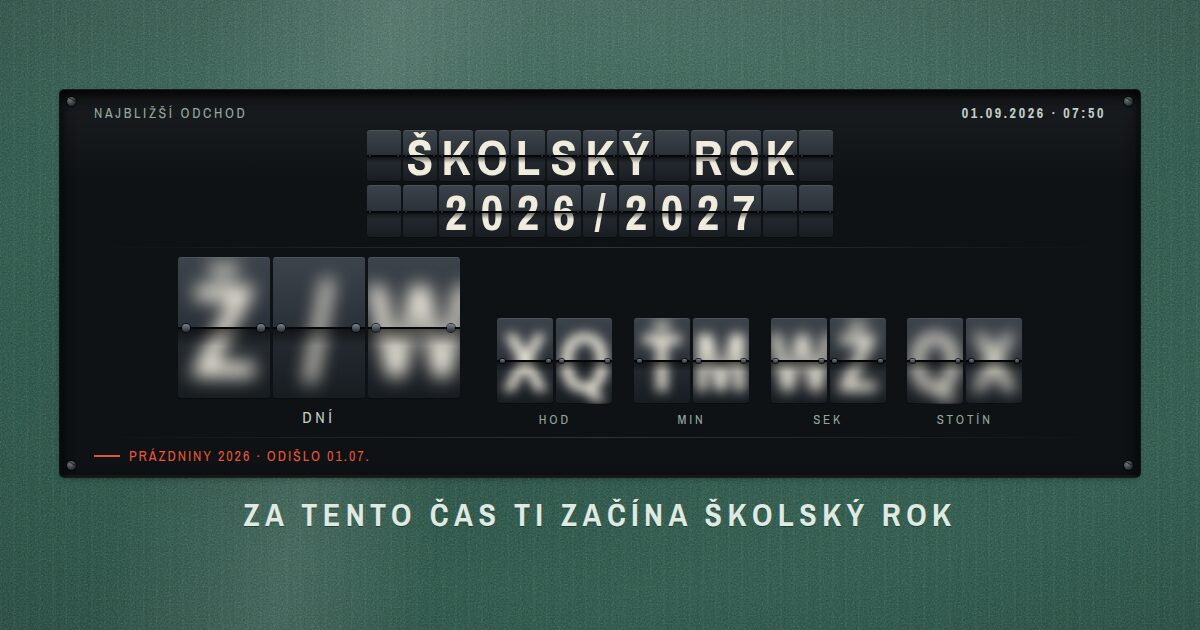
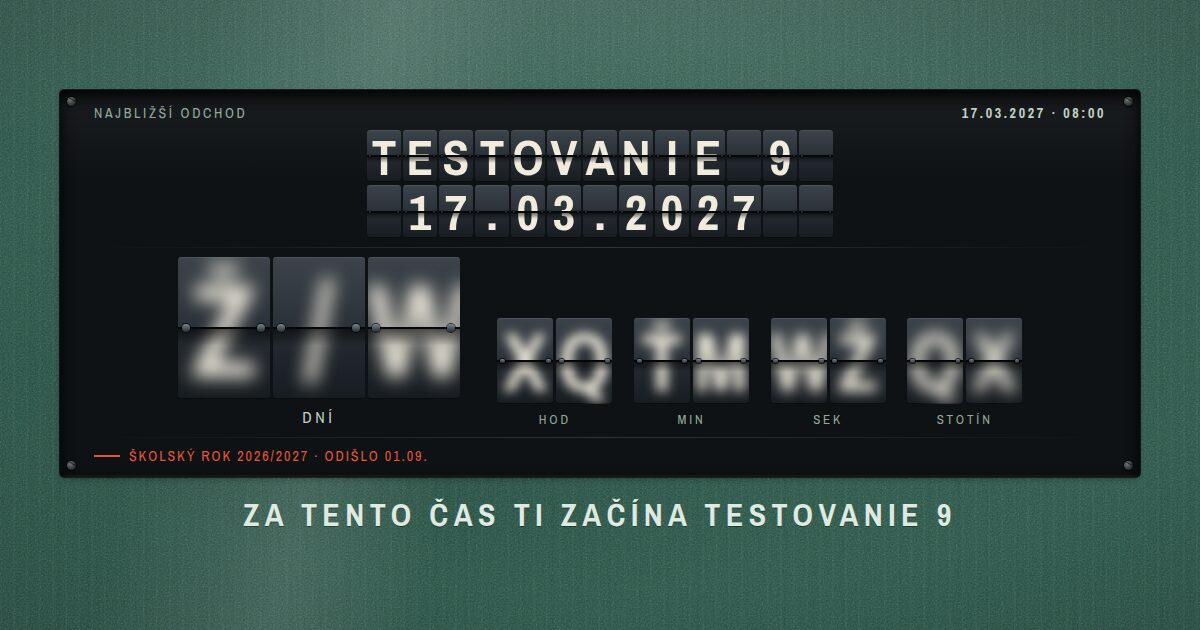
og: aktualizácia náhľadu [skip ci]

diff --git a/index.html b/index.html
@@ -3,8 +3,8 @@
 <head>
 <meta charset="utf-8">
 <meta name="viewport" content="width=device-width, initial-scale=1, viewport-fit=cover">
-<title>Za tento čas ti začína školský rok</title>
-<meta name="description" content="Odpočet do začiatku školského roka na dni, hodiny, minúty, sekundy a stotiny.">
+<title>Za tento čas ti začína Testovanie 9</title>
+<meta name="description" content="Odpočet do Testovania 9 na dni, hodiny, minúty, sekundy a stotiny.">
 <meta name="theme-color" content="#2A5346">
 
 <!-- Stránka sa šíri výhradne v osobných správach, nie cez vyhľadávanie - indexovanie
@@ -19,16 +19,16 @@
 <meta property="og:type" content="website">
 <meta property="og:locale" content="sk_SK">
 <meta property="og:site_name" content="Odchodová tabuľa">
-<meta property="og:title" content="Do začiatku školského roka zostáva 0 dní">
+<meta property="og:title" content="Do Testovania 9 zostáva 196 dní">
 <meta property="og:description" content="Klapková odchodová tabuľa. Odpočet beží na stotiny.">
 <meta property="og:url" content="https://robkrzn.github.io/OdpocetSkola/">
 <meta property="og:image" content="https://robkrzn.github.io/OdpocetSkola/og.jpg">
 <meta property="og:image:type" content="image/jpeg">
 <meta property="og:image:width" content="1200">
 <meta property="og:image:height" content="630">
-<meta property="og:image:alt" content="Klapková odchodová tabuľa s odpočtom do začiatku školského roka.">
+<meta property="og:image:alt" content="Klapková odchodová tabuľa s odpočtom do Testovania 9.">
 <meta name="twitter:card" content="summary_large_image">
-<meta name="twitter:title" content="Do začiatku školského roka zostáva 0 dní">
+<meta name="twitter:title" content="Do Testovania 9 zostáva 196 dní">
 <meta name="twitter:description" content="Klapková odchodová tabuľa. Odpočet beží na stotiny.">
 <meta name="twitter:image" content="https://robkrzn.github.io/OdpocetSkola/og.jpg">
 
